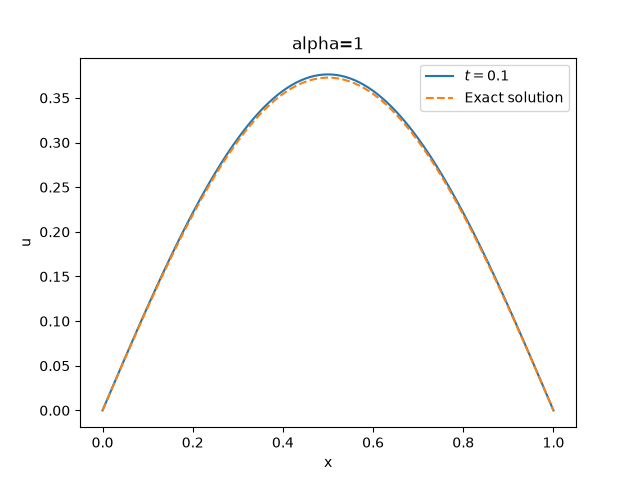
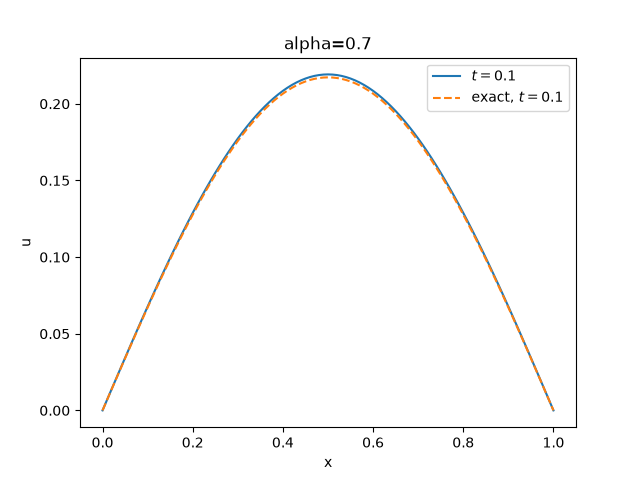
vizualization fixed

diff --git a/main.py b/main.py
@@ -1,52 +1,32 @@
 import matplotlib.pyplot as plt
+import numpy as np
 
-from src.core import Problem, Discretization, uniform_space, uniform_time
+from src.core import Discretization, uniform_space, uniform_time
 from src.forward.solver import solve
+from src.verification import FourierReference
 from src.viz.render import plot
 import src.viz.extract as extract
 
-import numpy as np
-from pymittagleffler import mittag_leffler
+ALPHA, FINAL_TIME = 0.7, 0.1
 
-from src.viz.primitives import Field1D
-
-
-def box(c):
-    x = c[0]
-    return np.sin(np.pi * x) / 1
-
-def exact_solution(x: np.ndarray, t: float, problem: Problem):
-    x = x[0]
-    return mittag_leffler(- problem.diffusion * (np.pi/ problem.length)**2 
-                          * t**problem.alpha, problem.alpha, 1.) * \
-        np.sin(np.pi * x / problem.length)
-
-
-problem = Problem(
-    length=1.0, final_time=0.1, alpha=1, diffusion=1.0,
-    u0=box,
-    bc_left=lambda t: 0.0, bc_right=lambda t: 0.0,
+# Эталон — единственный источник и задачи, и аналитики: они не могут разъехаться.
+ref = FourierReference(
+    length=1.0, alpha=ALPHA, diffusion=1.0,
+    u0_fn=lambda c: np.sin(np.pi * c[0]),
+    mode="continuous",
 )
 
-disc = Discretization(space=uniform_space(1.0, 100),
-                      time=uniform_time(0.1, 50), stepper="implicit")
+disc = Discretization(space=uniform_space(ref.length, 100),
+                      time=uniform_time(FINAL_TIME, 50), stepper="implicit")
 
-sol = solve(problem, disc)
+sol = solve(ref.problem(FINAL_TIME), disc)
 
-exact_sol = exact_solution(disc.space.coords, problem.final_time, problem) 
-ex_sol = Field1D(
-    x=disc.space.coords[0],
-    values=exact_sol,
-    xlabel='x',
-    vlabel='u',
-    label='Exact solution'
-)
-
-print(np.abs(sol.u[-1] - exact_sol).max())
+err = extract.error(sol, ref, FINAL_TIME)
+print(f"max|u_h - u| = {np.abs(err.values).max():.3e}")
 
 ax = plt.gca()
-plot(extract.at(sol, problem.final_time), ax)
-plot(ex_sol, ax, linestyle='--')
-ax.set_title(f"alpha={problem.alpha}")
+plot(extract.at(sol, FINAL_TIME), ax)
+plot(extract.exact(ref, disc.space, FINAL_TIME), ax, linestyle='--')
+ax.set_title(f"alpha={ALPHA}")
 ax.legend()
 ax.figure.savefig('plts/viz.png')

diff --git a/src/viz/extract.py b/src/viz/extract.py
@@ -2,21 +2,21 @@ import numpy as np
 from .primitives import Field, Field1D, Field2D
 
 from ..forward.solution import Solution
+from ..protocols import Grid
 from ..types import Array
+from ..verification.reference import ReferenceSolution
 
-def _shaped(sol: Solution, flat: Array) -> Array:
-    return np.asarray(flat).reshape(sol.space.shape)
+def _shaped(grid: Grid, flat: Array) -> Array:
+    return np.asarray(flat).reshape(grid.shape)
 
 def _wrap(
-    sol: Solution, 
-    values: Array, 
-    *, 
-    label=None, 
-    signed=False, 
+    g: Grid,
+    values: Array,
+    *,
+    label=None,
+    signed=False,
     vlabel='u'
 ) -> Field:
-    g = sol.space
-
     if values.ndim == 1:
         return Field1D(
             x=g.nodes[0], values=values, xlabel=g.axes[0], vlabel=vlabel, label=label
@@ -38,6 +38,32 @@ def at(
     vlabel: str='u'
 ) -> Field:
     lbl = label if label is not None else f'$t={t:g}$'
-    return _wrap(sol, _shaped(sol, sol.at_time(t)), label=lbl, signed=signed, vlabel=vlabel)
+    g = sol.space
+    return _wrap(g, _shaped(g, sol.at_time(t)), label=lbl, signed=signed, vlabel=vlabel)
 
 
+def exact(
+    ref: ReferenceSolution,
+    grid: Grid,
+    t: float,
+    label=None,
+    signed: bool=False,
+    vlabel: str='u'
+) -> Field:
+    lbl = label if label is not None else f'exact, $t={t:g}$'
+    return _wrap(grid, _shaped(grid, ref.exact(grid.coords, t, grid)),
+                 label=lbl, signed=signed, vlabel=vlabel)
+
+
+def error(
+    sol: Solution,
+    ref: ReferenceSolution,
+    t: float,
+    label=None,
+    vlabel: str=r'$u_h - u$'
+) -> Field:
+    """Поточечная невязка — тот же Field, рисуется тем же plot()."""
+    g = sol.space
+    diff = sol.at_time(t) - ref.exact(g.coords, t, g)
+    lbl = label if label is not None else f'error, $t={t:g}$'
+    return _wrap(g, _shaped(g, diff), label=lbl, signed=True, vlabel=vlabel)

diff --git a/src/verification/mittag_leffler.py b/src/verification/mittag_leffler.py
@@ -30,10 +30,12 @@ def _integral(alpha: float, x: float) -> float:
     inv_a = 1.0 / alpha
 
     def f(y: float) -> float:
-        return np.exp(-x * y**inv_a) / (y * y + 2.0 * y * c + 1.0)
+        # спектральное представление записано для E_a(-t^a); здесь t = x^{1/a},
+        # поэтому в экспоненте (x*y)^{1/a}, а не x * y^{1/a}
+        return np.exp(-((x * y) ** inv_a)) / (y * y + 2.0 * y * c + 1.0)
 
-    # масштаб убывания экспоненты ~ x^{-α}; разбиваем там, где она падает
-    s0 = min(1.0, x ** (-alpha)) if x > 0 else 1.0
+    # экспонента падает при y ~ 1/x; разбиваем там, где она падает
+    s0 = min(1.0, 1.0 / x) if x > 0 else 1.0
     total = 0.0
     for a, b in ((0.0, s0), (s0, 1.0), (1.0, np.inf)):
         if a < b:
